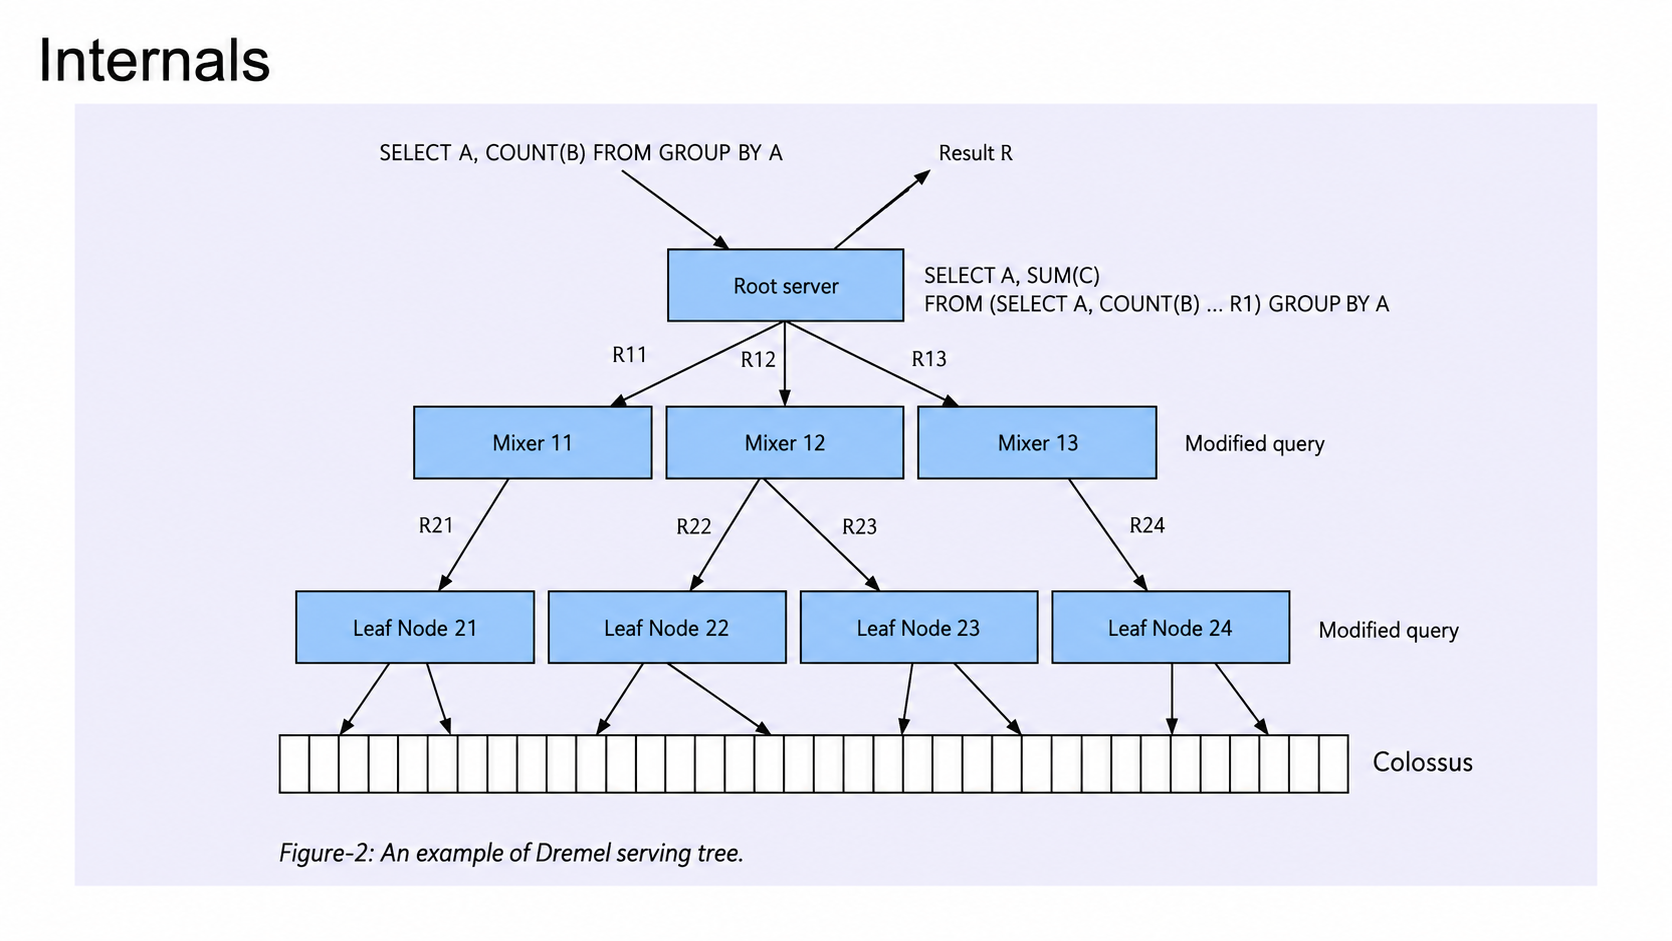
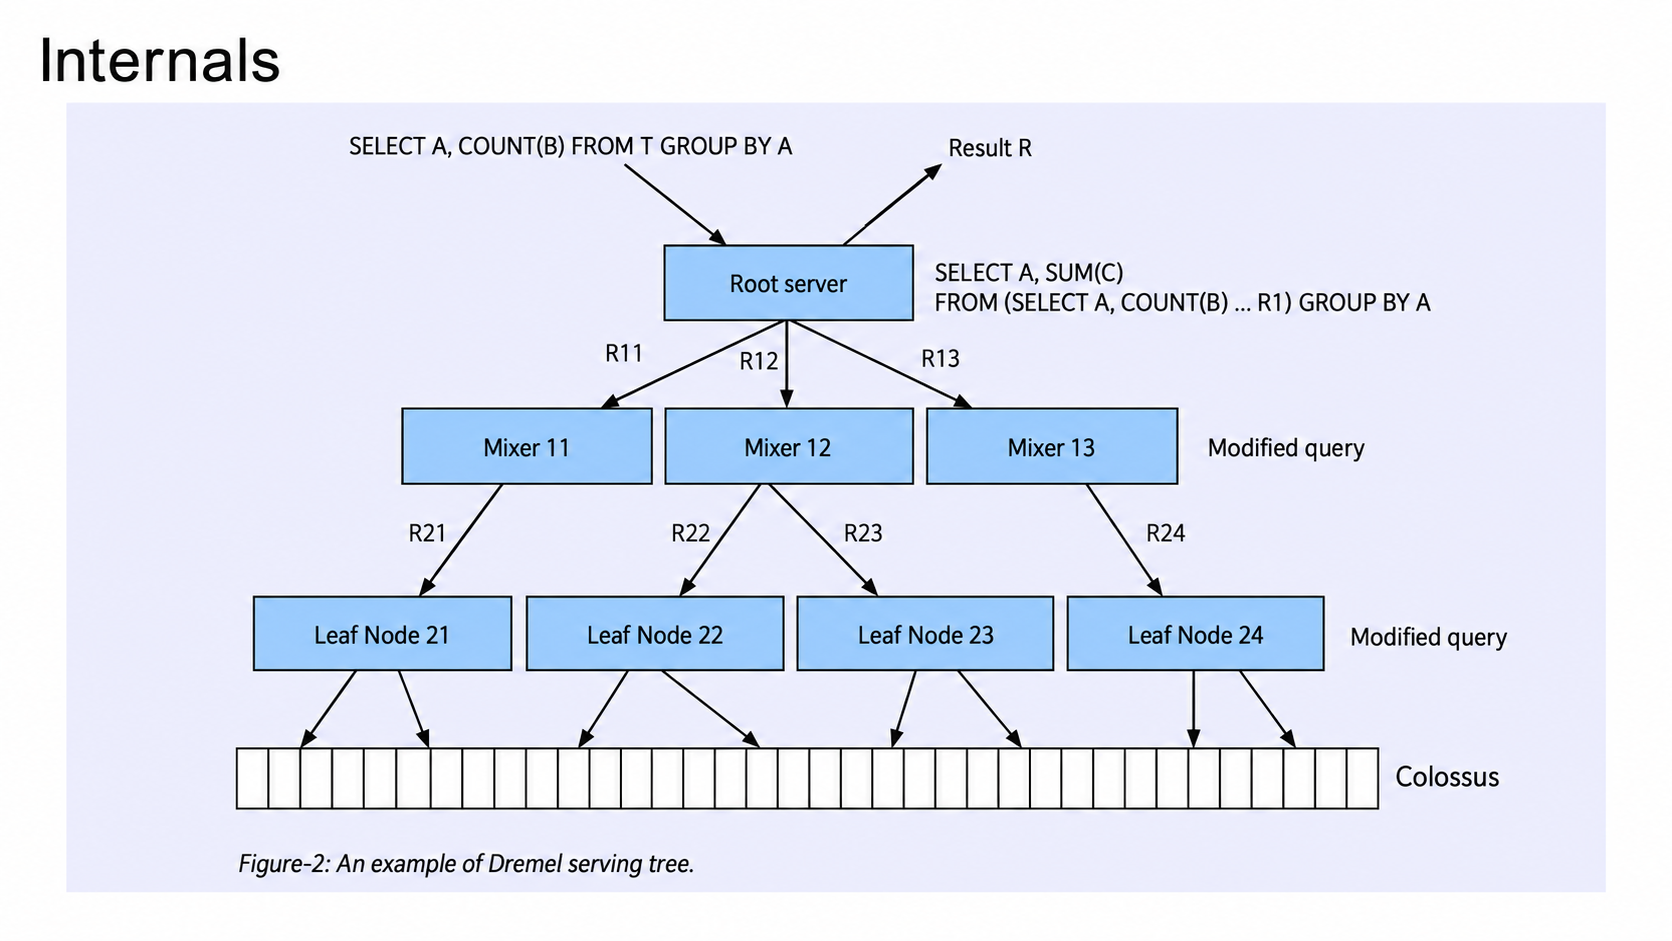
Repair DE partition and Dremel illustrations

diff --git a/cohorts/2027/2026-09-08-imagegen-repair-provenance.md b/cohorts/2027/2026-09-08-imagegen-repair-provenance.md
@@ -98,3 +98,27 @@ and remains readable. The generated output is stored under
 | File | SHA-256 |
 |---|---|
[1 lines of base64/hex data omitted]
+
+## Strict follow-up repair — 2026-09-09
+
+The earlier partition-pruning row above is superseded. A strict review found
+that the published image still showed the `CREATE OR REPLACE TABLE` step and a
+table-replacement result, even though the lesson discusses the cost of the
+partitioned `SELECT`. The Dremel row was also repaired because its top query
+omitted the table name. The final outputs below were generated from the
+original non-crisp JPGs and fresh bounded crops made directly from those JPGs;
+the previous published PNGs were layout references only.
+
+The final PNGs were inspected at native size and after proportional rendering
+to 608px wide. Both contain C2PA metadata. Crop geometry is recorded so the
+input selection is reproducible.
+
+| Published target | Original JPG (SHA-256) | Fresh bounded crop (geometry; SHA-256) | Imagegen output | Final PNG (SHA-256) | C2PA / validation |
+|---|---|---|---|---|---|
[2 lines of base64/hex data omitted]
+
+The `02-workflow-orchestration/images/homework-cropped.png` embed was removed
+from `homework.md` and replaced by a native Markdown table listing the seven
+2021 yellow and green monthly files. It was not regenerated; the source image
+remains unmodified and no C2PA claim is made for it.

diff --git a/cohorts/2027/02-workflow-orchestration/homework.md b/cohorts/2027/02-workflow-orchestration/homework.md
@@ -19,7 +19,12 @@ To get a `wget`-able link, use this prefix (note that the link itself gives 404)
 
 So far in the course, we processed data for the year 2019 and 2020. Your task is to extend the existing flows to include data for the year 2021.
 
-![homework datasets](../../../02-workflow-orchestration/images/homework-cropped.png)
+The homework release contains seven monthly files for each taxi service:
+
+| Service | Files to ingest |
+| --- | --- |
+| Yellow taxi | `yellow_tripdata_2021-01.csv.gz` through `yellow_tripdata_2021-07.csv.gz` |
+| Green taxi | `green_tripdata_2021-01.csv.gz` through `green_tripdata_2021-07.csv.gz` |
 
 As a hint, Kestra makes that process really easy:
 1. You can leverage the backfill functionality in the [scheduled flow](flows/09_gcp_taxi_scheduled.yaml) to backfill the data for the year 2021. Just make sure to select the time period for which data exists i.e. from `2021-01-01` to `2021-07-31`. Also, make sure to do the same for both `yellow` and `green` taxi data (select the right service in the `taxi` input).
